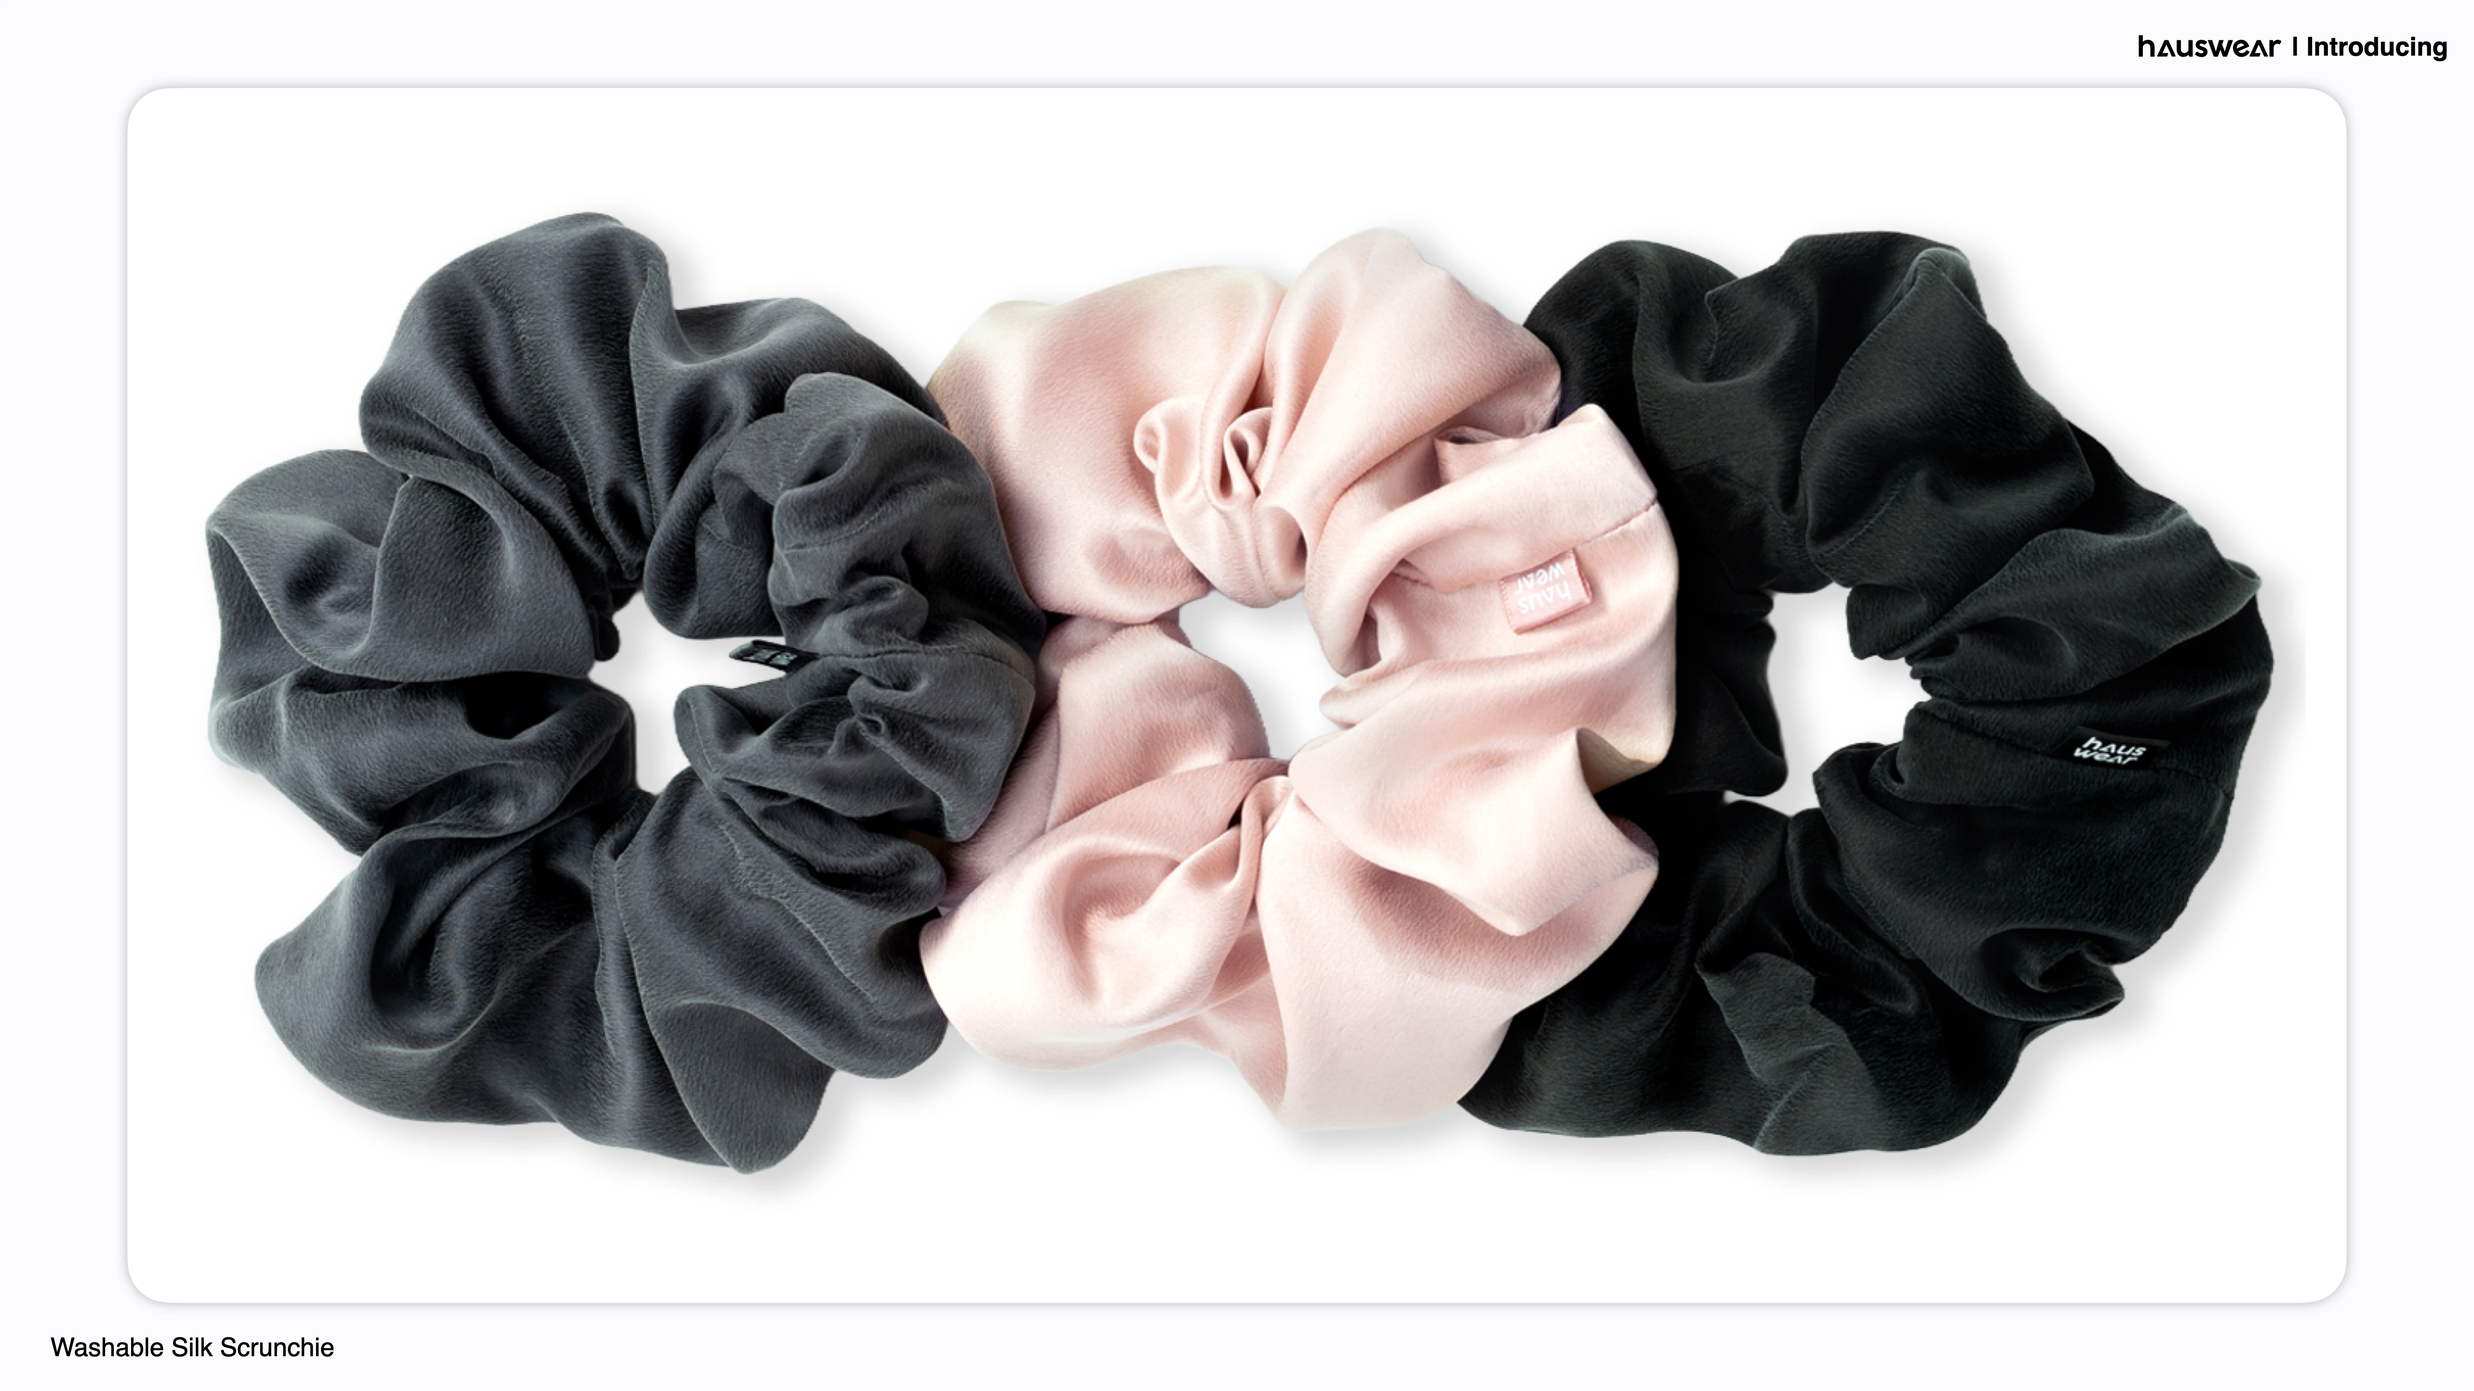
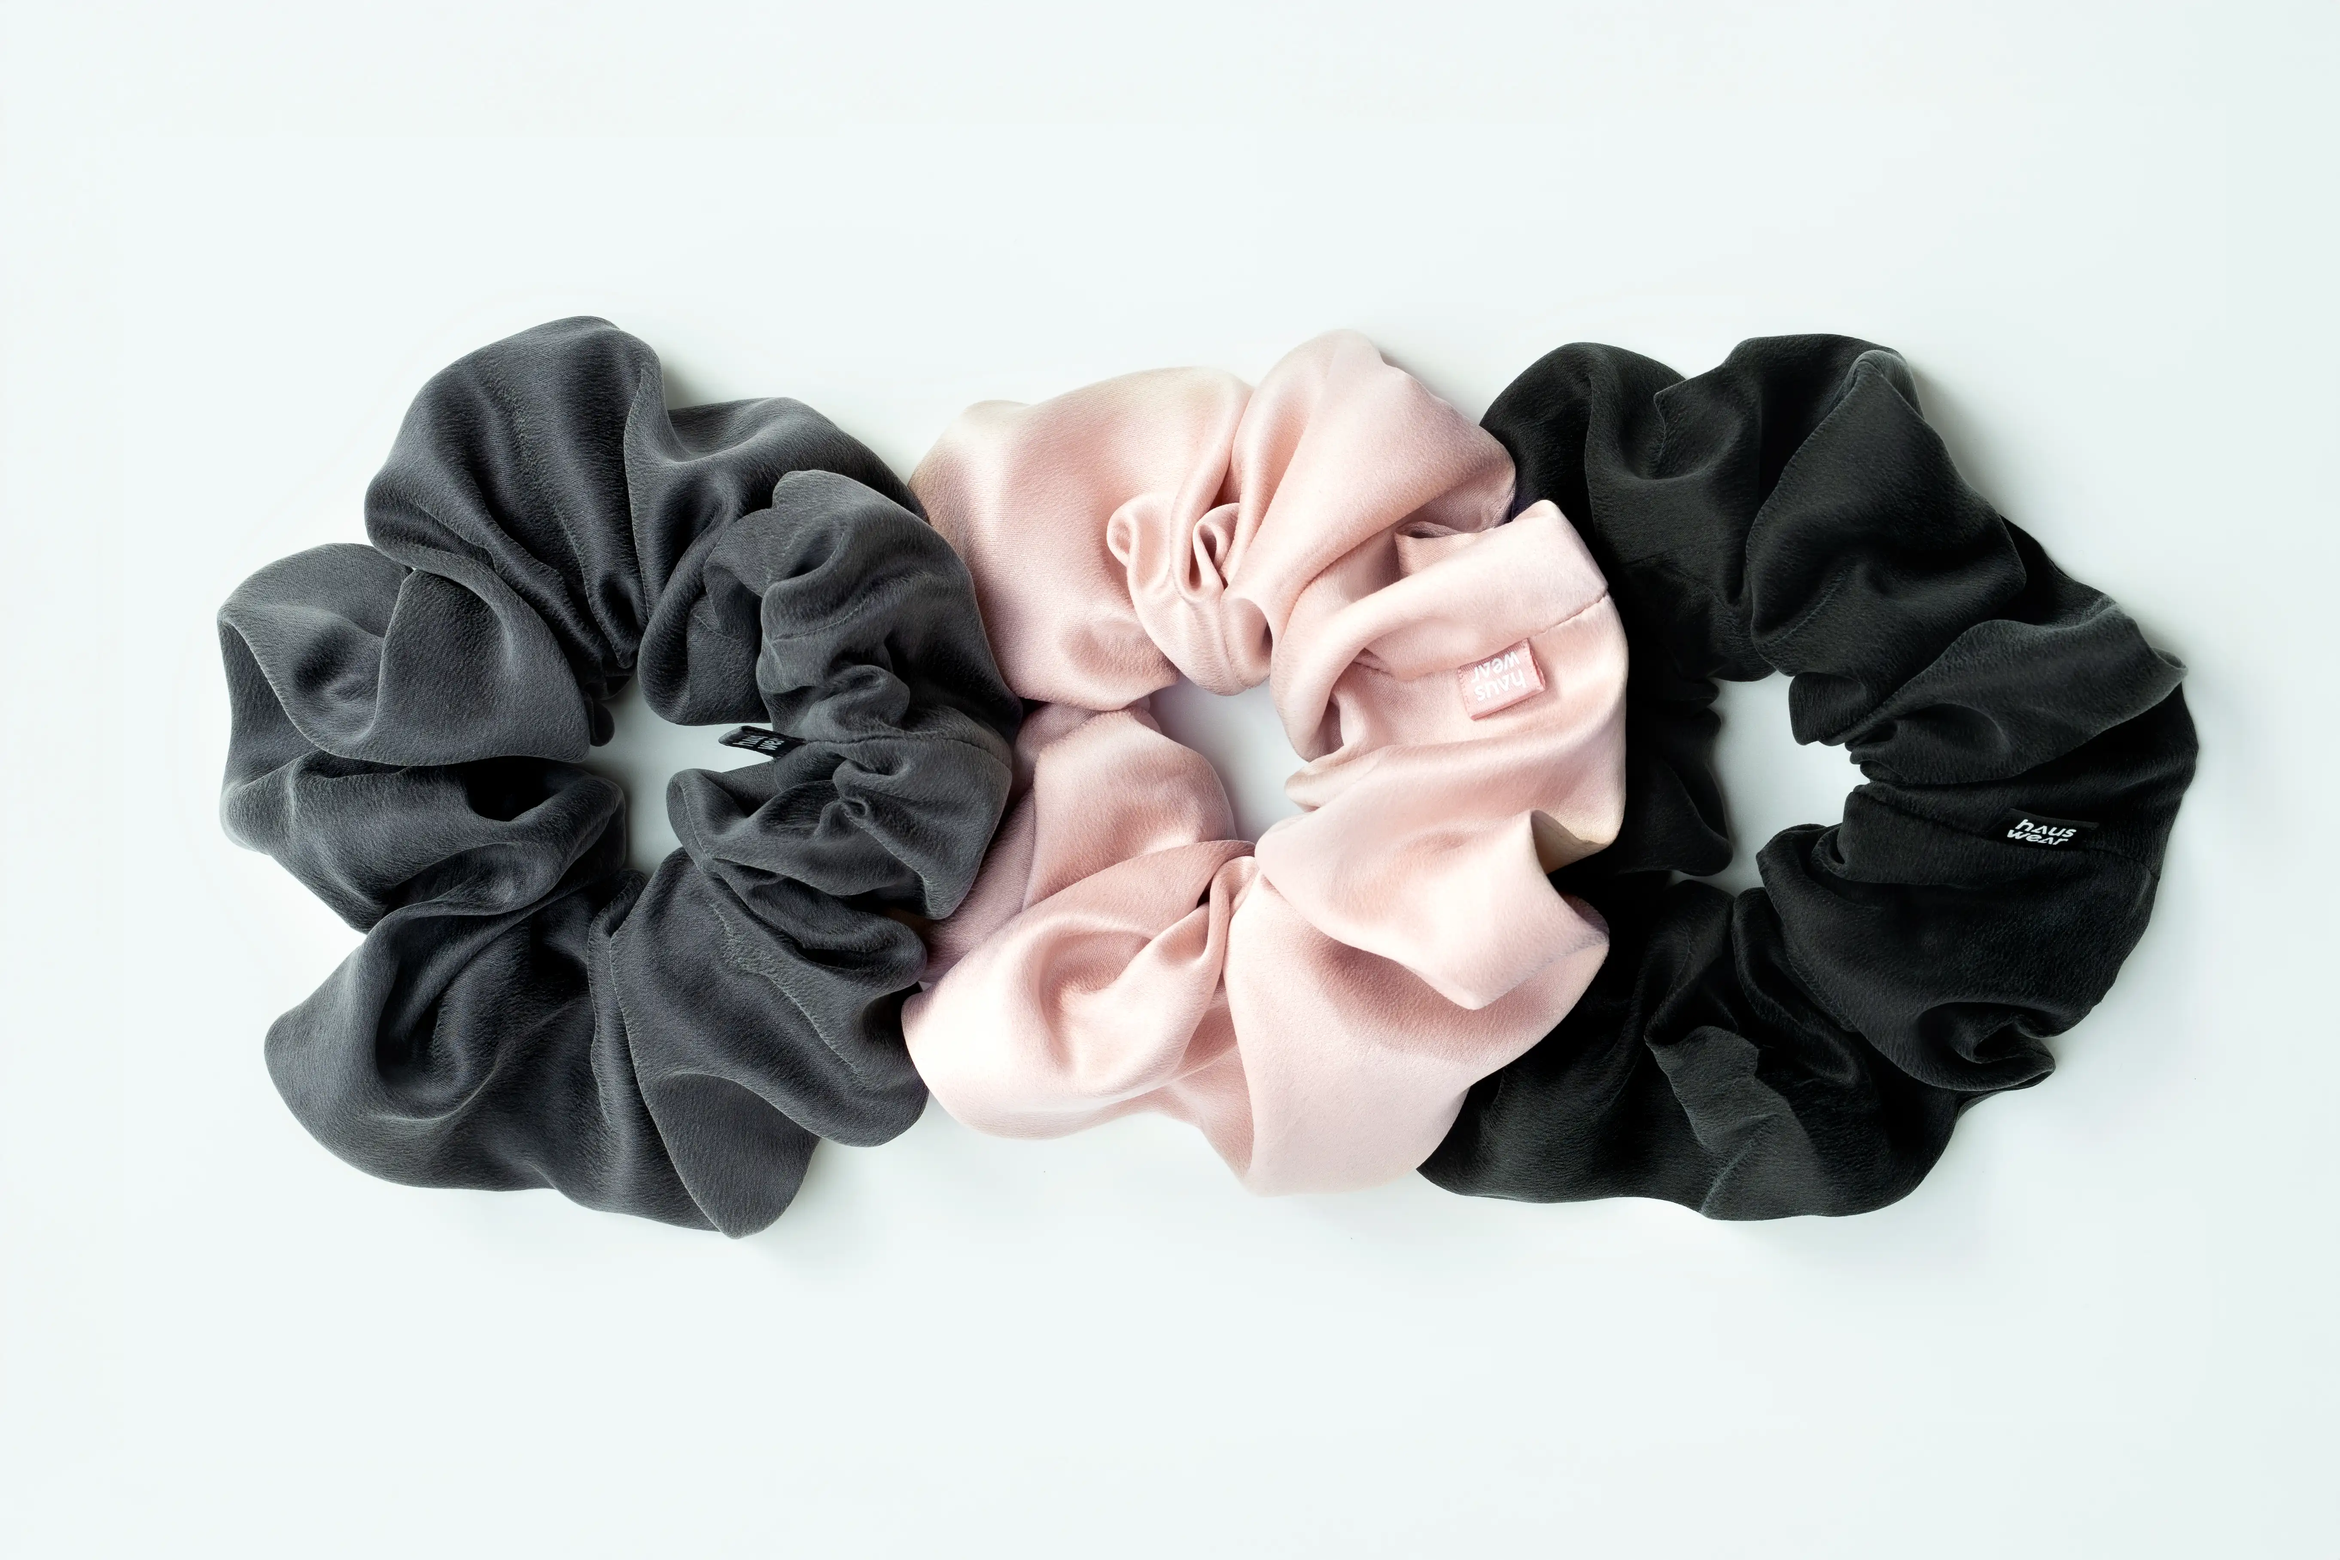
Add files via upload

diff --git a/index.html b/index.html
@@ -125,13 +125,23 @@
             #item_s_long { grid-column: 2; grid-row: 6; }
             #item_s_short { grid-column: 3; grid-row: 6; }
 
+            /* 竖屏响应式：黑/灰/粉三行独立展示，确保每套完整呈现上方大图、下方大图并可平滑滚动 */
             .slide-trio-wrap {
                 grid-template-columns: 1fr;
-                grid-template-rows: repeat(3, auto);
+                grid-template-rows: repeat(3, 1fr);
                 padding: 10px;
-                gap: 12px;
+                gap: 14px;
+                overflow-y: auto;
+                -webkit-overflow-scrolling: touch;
             }
-            .trio-card { padding: 10px; }
+            .trio-card {
+                padding: 10px;
+                min-height: 280px;
+                gap: 8px;
+            }
+            .trio-top-img, .trio-bottom-img {
+                min-height: 110px;
+            }
 
             .slide-asym-wrap { grid-template-columns: 1fr; grid-template-rows: repeat(3, 1fr); padding: 10px; gap: 10px; }
             #item_15_left { grid-column: 1; grid-row: 1; }
@@ -395,7 +405,13 @@
         <section class="slide"><div class="slide-img-wrap" onclick="openLightbox('slide18.webp')"><img src="slide18.webp" alt="Slide 18"></div><div class="content"><div class="tag">18 / 19</div><h1>/002.4 Washable Silk Scrunchie</h1><p>可水洗真丝发圈</p></div></section>
         
         <!-- 19 -->
-        <section class="slide"><div class="slide-img-wrap" onclick="openLightbox('slide19.webp')"><img src="slide19.webp" alt="Slide 19"></div><div class="content"><div class="tag">19 / 19</div><h1>/002.4 Washable Silk Scrunchie</h1><p>感谢阅读</p></div></section>
+        <section class="slide">
+            <div class="slide-dual-wrap">
+                <div class="dual-img-box" onclick="openLightbox('slide19_left.webp')"><img src="slide19_left.webp" alt="Slide 19 Left"></div>
+                <div class="dual-img-box" onclick="openLightbox('slide19_right.webp')"><img src="slide19_right.webp" alt="Slide 19 Right"></div>
+            </div>
+            <div class="content"><div class="tag">19 / 19</div><h1>/002.4 Washable Silk Scrunchie</h1><p>感谢阅读（多角度质感展示）</p></div>
+        </section>
     </div>
 
     <!-- 全屏放大查看器 -->
